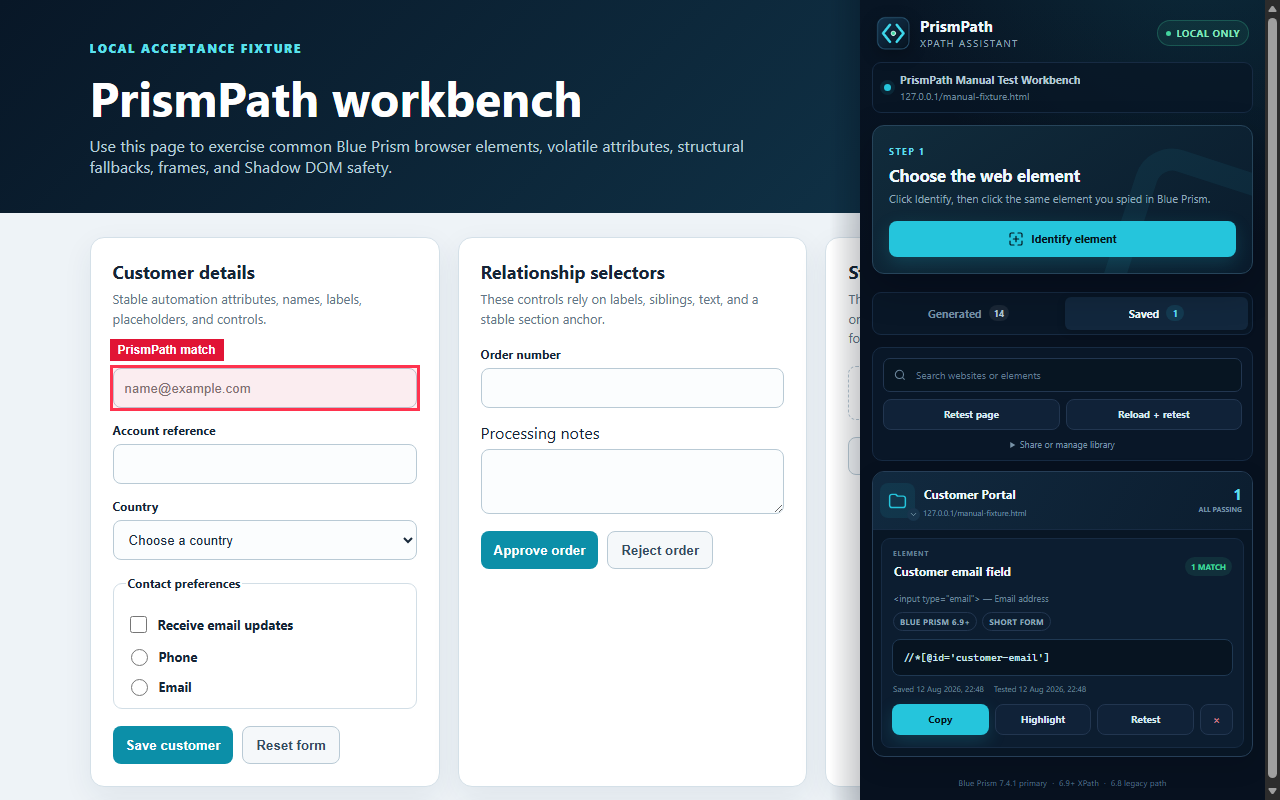
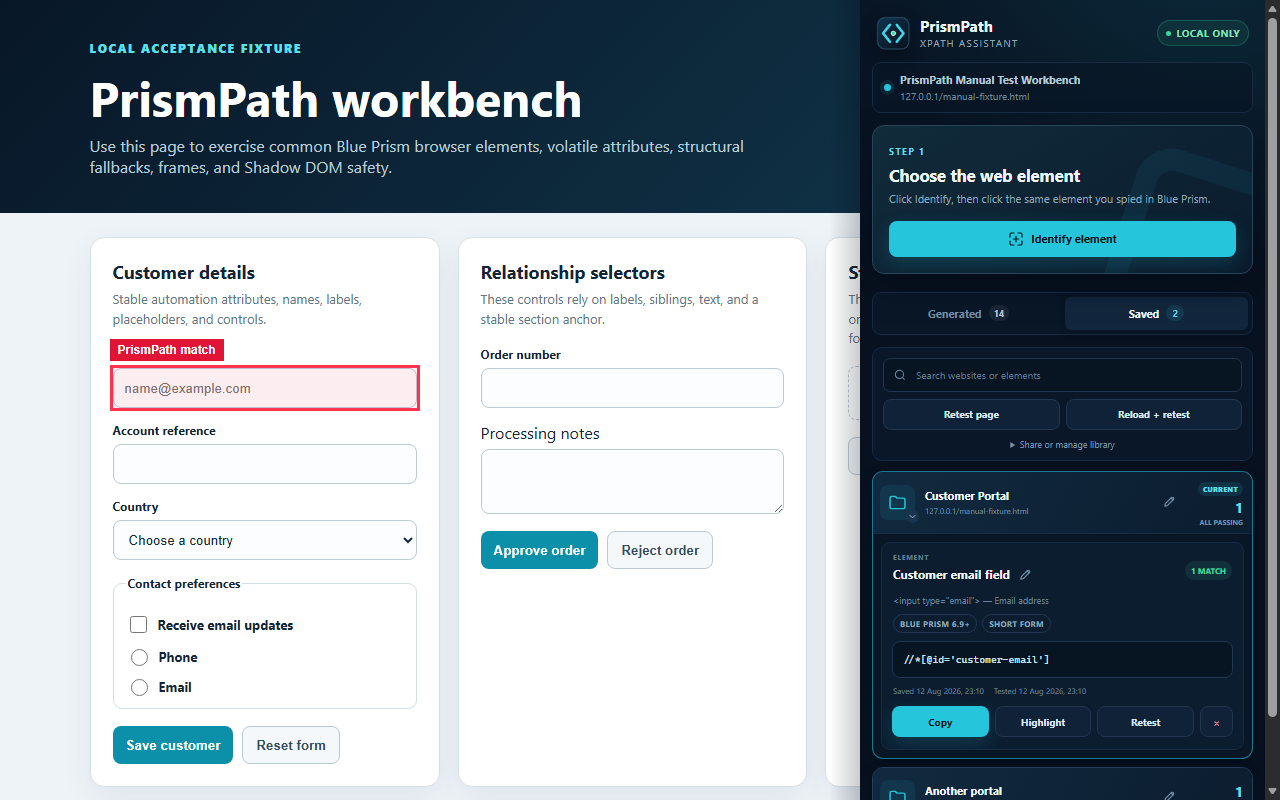
Improve saved page navigation

diff --git a/sidepanel/app.js b/sidepanel/app.js
@@ -9,7 +9,9 @@ const state = {
   selection: null,
   saved: [],
   websites: {},
-  collapsedWebsites: new Set(),
+  expandedWebsiteKey: "",
+  editingWebsiteKey: "",
+  editingElementId: "",
   currentView: "generated",
   identifying: false,
   retesting: false,
@@ -68,10 +70,7 @@ function bindEvents() {
   document.querySelectorAll(".tab").forEach((tab) => tab.addEventListener("click", () => switchView(tab.dataset.tab)));
   elements.generatedContent.addEventListener("click", onGeneratedAction);
   elements.savedContent.addEventListener("click", onSavedAction);
-  elements.savedContent.addEventListener("change", onSavedChange);
-  elements.savedContent.addEventListener("keydown", (event) => {
-    if (event.key === "Enter" && event.target.matches(".website-name, .saved-name")) event.target.blur();
-  });
+  elements.savedContent.addEventListener("keydown", onSavedKeyDown);
   elements.savedSearch.addEventListener("input", () => {
     state.search = elements.savedSearch.value.trim().toLowerCase();
     renderSaved();
@@ -307,7 +306,6 @@ async function saveCandidate(candidate) {
   };
   state.saved.unshift(saved);
   ensureWebsiteForSelector(saved);
-  state.collapsedWebsites.delete(saved.pageUrlBase);
   await persistSaved();
   renderSaved();
   renderCounts();
@@ -343,7 +341,9 @@ function renderSaved() {
 }
 
 function websiteFolder(website) {
-  const collapsed = state.collapsedWebsites.has(website.key);
+  const expanded = state.expandedWebsiteKey === website.key;
+  const editing = state.editingWebsiteKey === website.key;
+  const isCurrentPage = website.key === state.activeTab?.urlBase;
   const validCount = website.selectors.filter((item) => item.lastStatus === "valid").length;
   const attentionCount = website.selectors.filter((item) => ["missing", "multiple", "invalid"].includes(item.lastStatus)).length;
   const statusText = attentionCount
@@ -352,23 +352,37 @@ function websiteFolder(website) {
       ? "All passing"
       : `${website.selectors.length} saved`;
   return `
-    <section class="website-folder ${collapsed ? "is-collapsed" : ""}" data-website-key="${escapeAttribute(website.key)}">
+    <section class="website-folder ${expanded ? "is-expanded" : "is-collapsed"} ${isCurrentPage ? "is-current" : ""}" data-website-key="${escapeAttribute(website.key)}">
       <div class="website-header">
-        <button class="website-toggle" type="button" data-action="toggle-website" data-website-key="${escapeAttribute(website.key)}" aria-expanded="${String(!collapsed)}" aria-label="${collapsed ? "Open" : "Close"} ${escapeAttribute(website.name)} folder">
-          <svg class="folder-icon" viewBox="0 0 24 24" aria-hidden="true"><path d="M3 7.5A2.5 2.5 0 0 1 5.5 5H10l2 2h6.5A2.5 2.5 0 0 1 21 9.5v8A2.5 2.5 0 0 1 18.5 20h-13A2.5 2.5 0 0 1 3 17.5z"/></svg>
-          <svg class="folder-chevron" viewBox="0 0 24 24" aria-hidden="true"><path d="m9 6 6 6-6 6"/></svg>
-        </button>
-        <label class="website-identity">
-          <span class="sr-only">Website folder name</span>
-          <input class="website-name" data-action="rename-website" data-website-key="${escapeAttribute(website.key)}" value="${escapeAttribute(website.name)}" aria-label="Website folder name">
-          <span class="website-url">${escapeHtml(readableUrl(website.url))}</span>
-        </label>
+        ${editing
+          ? `<div class="website-editing">
+              <span class="folder-mark">${folderIcon()}</span>
+              <label class="website-edit-field">
+                <span class="sr-only">Website name</span>
+                <input class="website-name" data-editor="website" data-website-key="${escapeAttribute(website.key)}" value="${escapeAttribute(website.name)}" aria-label="Website name">
+                <span class="website-url">${escapeHtml(readableUrl(website.url))}</span>
+              </label>
+            </div>`
+          : `<button class="website-open" type="button" data-action="toggle-website" data-website-key="${escapeAttribute(website.key)}" aria-expanded="${String(expanded)}">
+              <span class="folder-mark">${folderIcon()}${chevronIcon()}</span>
+              <span class="website-identity">
+                <strong>${escapeHtml(website.name)}</strong>
+                <span class="website-url">${escapeHtml(readableUrl(website.url))}</span>
+              </span>
+            </button>`}
+        <div class="website-edit-actions">
+          ${editing
+            ? `<button class="edit-icon-button confirm" type="button" data-action="save-website-name" data-website-key="${escapeAttribute(website.key)}" aria-label="Save website name" title="Save website name">${checkIcon()}</button>
+               <button class="edit-icon-button" type="button" data-action="cancel-website-name" aria-label="Cancel website rename" title="Cancel">${closeIcon()}</button>`
+            : `<button class="edit-icon-button" type="button" data-action="edit-website-name" data-website-key="${escapeAttribute(website.key)}" aria-label="Rename ${escapeAttribute(website.name)}" title="Rename website">${penIcon()}</button>`}
+        </div>
         <div class="website-totals">
+          ${isCurrentPage ? '<em class="current-page-badge">Current</em>' : ""}
           <strong>${website.selectors.length}</strong>
           <span>${escapeHtml(statusText)}</span>
         </div>
       </div>
-      <div class="website-elements" ${collapsed ? "hidden" : ""}>
+      <div class="website-elements" ${expanded ? "" : "hidden"}>
         ${website.selectors.map(savedCard).join("")}
       </div>
     </section>`;
@@ -376,15 +390,25 @@ function websiteFolder(website) {
 
 function savedCard(item) {
   const status = item.lastStatus || "untested";
+  const editing = state.editingElementId === item.id;
   const statusLabel = status === "valid" ? "1 match" : status === "multiple" ? `${item.lastCount || 2} matches` : status;
   const context = item.frameIsFrame ? `Iframe · ${readableUrl(item.frameUrl)}` : item.elementSummary || "Saved web element";
   return `
     <article class="saved-card" data-id="${item.id}">
       <div class="card-head">
-        <label class="element-name-field">
+        <div class="element-name-field">
           <span class="element-label">Element</span>
-          <input class="saved-name" data-action="rename-element" data-id="${item.id}" value="${escapeAttribute(item.name)}" aria-label="Saved element name">
-        </label>
+          ${editing
+            ? `<div class="element-editing">
+                <input class="saved-name" data-editor="element" data-id="${item.id}" value="${escapeAttribute(item.name)}" aria-label="Element name">
+                <button class="edit-icon-button confirm" type="button" data-action="save-element-name" data-id="${item.id}" aria-label="Save element name" title="Save element name">${checkIcon()}</button>
+                <button class="edit-icon-button" type="button" data-action="cancel-element-name" aria-label="Cancel element rename" title="Cancel">${closeIcon()}</button>
+              </div>`
+            : `<div class="element-name-row">
+                <strong>${escapeHtml(item.name)}</strong>
+                <button class="edit-icon-button" type="button" data-action="edit-element-name" data-id="${item.id}" aria-label="Rename ${escapeAttribute(item.name)}" title="Rename element">${penIcon()}</button>
+              </div>`}
+        </div>
         <span class="status-pill ${escapeHtml(status)}">${escapeHtml(statusLabel)}</span>
       </div>
       <div class="saved-context">${escapeHtml(context)}</div>
@@ -411,8 +435,43 @@ async function onSavedAction(event) {
   if (!button) return;
   if (button.dataset.action === "toggle-website") {
     const websiteKey = button.dataset.websiteKey;
-    if (state.collapsedWebsites.has(websiteKey)) state.collapsedWebsites.delete(websiteKey);
-    else state.collapsedWebsites.add(websiteKey);
+    state.expandedWebsiteKey = state.expandedWebsiteKey === websiteKey ? "" : websiteKey;
+    state.editingWebsiteKey = "";
+    state.editingElementId = "";
+    renderSaved();
+    return;
+  }
+  if (button.dataset.action === "edit-website-name") {
+    state.editingWebsiteKey = button.dataset.websiteKey;
+    state.editingElementId = "";
+    renderSaved();
+    focusActiveEditor();
+    return;
+  }
+  if (button.dataset.action === "save-website-name") {
+    const input = button.closest(".website-header")?.querySelector("[data-editor=website]");
+    await saveWebsiteName(button.dataset.websiteKey, input?.value);
+    return;
+  }
+  if (button.dataset.action === "cancel-website-name") {
+    state.editingWebsiteKey = "";
+    renderSaved();
+    return;
+  }
+  if (button.dataset.action === "edit-element-name") {
+    state.editingElementId = button.dataset.id;
+    state.editingWebsiteKey = "";
+    renderSaved();
+    focusActiveEditor();
+    return;
+  }
+  if (button.dataset.action === "save-element-name") {
+    const input = button.closest(".saved-card")?.querySelector("[data-editor=element]");
+    await saveElementName(button.dataset.id, input?.value);
+    return;
+  }
+  if (button.dataset.action === "cancel-element-name") {
+    state.editingElementId = "";
     renderSaved();
     return;
   }
@@ -435,26 +494,48 @@ async function onSavedAction(event) {
   }
 }
 
-async function onSavedChange(event) {
-  if (event.target.dataset.action === "rename-element") {
-    const item = state.saved.find((selector) => selector.id === event.target.dataset.id);
-    if (!item) return;
-    item.name = event.target.value.trim().slice(0, 180) || "Unnamed element";
-    await persistSaved();
-    event.target.value = item.name;
-    showToast("Element name updated.", "success");
-    return;
+async function onSavedKeyDown(event) {
+  if (!event.target.matches("[data-editor=website], [data-editor=element]")) return;
+  if (event.key === "Enter") {
+    event.preventDefault();
+    if (event.target.dataset.editor === "website") await saveWebsiteName(event.target.dataset.websiteKey, event.target.value);
+    else await saveElementName(event.target.dataset.id, event.target.value);
   }
-  if (event.target.dataset.action === "rename-website") {
-    const websiteKey = event.target.dataset.websiteKey;
-    const website = state.websites[websiteKey];
-    if (!website) return;
-    website.name = event.target.value.trim().slice(0, 180) || website.defaultName || "Unnamed website";
-    website.updatedAt = new Date().toISOString();
-    await persistSaved();
-    event.target.value = website.name;
-    showToast("Website folder renamed.", "success");
+  if (event.key === "Escape") {
+    event.preventDefault();
+    state.editingWebsiteKey = "";
+    state.editingElementId = "";
+    renderSaved();
   }
+}
+
+async function saveWebsiteName(websiteKey, value) {
+  const website = state.websites[websiteKey];
+  if (!website) return;
+  website.name = String(value || "").trim().slice(0, 180) || website.defaultName || "Unnamed website";
+  website.updatedAt = new Date().toISOString();
+  state.editingWebsiteKey = "";
+  await persistSaved();
+  renderSaved();
+  showToast("Website name updated.", "success");
+}
+
+async function saveElementName(id, value) {
+  const item = state.saved.find((selector) => selector.id === id);
+  if (!item) return;
+  item.name = String(value || "").trim().slice(0, 180) || "Unnamed element";
+  state.editingElementId = "";
+  await persistSaved();
+  renderSaved();
+  showToast("Element name updated.", "success");
+}
+
+function focusActiveEditor() {
+  requestAnimationFrame(() => {
+    const input = elements.savedContent.querySelector("[data-editor=website], [data-editor=element]");
+    input?.focus();
+    input?.select();
+  });
 }
 
 async function validateSaved(item, highlight) {
@@ -620,7 +701,9 @@ async function clearLibrary() {
   if (!confirm(`Delete all ${state.saved.length} saved selectors from this browser?`)) return;
   state.saved = [];
   state.websites = {};
-  state.collapsedWebsites.clear();
+  state.expandedWebsiteKey = "";
+  state.editingWebsiteKey = "";
+  state.editingElementId = "";
   await persistSaved();
   renderSaved();
   renderCounts();
@@ -807,6 +890,26 @@ function emptyState(title, message) {
 
 function targetIcon() {
   return '<svg viewBox="0 0 24 24" aria-hidden="true"><path d="M8 3H5a2 2 0 0 0-2 2v3m13-5h3a2 2 0 0 1 2 2v3M8 21H5a2 2 0 0 1-2-2v-3m18 0v3a2 2 0 0 1-2 2h-3M8 12h8m-4-4v8"/></svg>';
+}
+
+function folderIcon() {
+  return '<svg class="folder-icon" viewBox="0 0 24 24" aria-hidden="true"><path d="M3.5 6.8c0-1 .8-1.8 1.8-1.8h4.1l2 2h7.3c1 0 1.8.8 1.8 1.8v8.4c0 1-.8 1.8-1.8 1.8H5.3c-1 0-1.8-.8-1.8-1.8V6.8Z"/></svg>';
+}
+
+function chevronIcon() {
+  return '<svg class="folder-chevron" viewBox="0 0 16 16" aria-hidden="true"><path d="m6 3.5 4.5 4.5L6 12.5"/></svg>';
+}
+
+function penIcon() {
+  return '<svg viewBox="0 0 20 20" aria-hidden="true"><path d="m12.9 4.1 3 3M4 16l.8-3.6 8.8-8.8a1.4 1.4 0 0 1 2 0l.8.8a1.4 1.4 0 0 1 0 2l-8.8 8.8L4 16Z"/></svg>';
+}
+
+function checkIcon() {
+  return '<svg viewBox="0 0 20 20" aria-hidden="true"><path d="m4 10.2 3.6 3.6L16 5.5"/></svg>';
+}
+
+function closeIcon() {
+  return '<svg viewBox="0 0 20 20" aria-hidden="true"><path d="m5 5 10 10M15 5 5 15"/></svg>';
 }
 
 function categoryLabel(category) {

diff --git a/sidepanel/styles.css b/sidepanel/styles.css
@@ -204,33 +204,47 @@ p { margin: 0; color: var(--muted); font-size: 11px; line-height: 1.5; }
 .text-button:hover { text-decoration: underline; }
 .danger-text { color: #ff8293; }
 
-.saved-websites { display: grid; gap: 11px; }
-.website-folder { overflow: hidden; border: 1px solid #263e57; border-radius: 12px; background: rgba(9, 23, 38, .9); box-shadow: 0 9px 24px rgba(0, 5, 14, .13); }
-.website-header { display: grid; grid-template-columns: 35px minmax(0, 1fr) auto; align-items: center; gap: 8px; min-height: 58px; padding: 8px 10px 8px 7px; background: linear-gradient(120deg, rgba(18, 43, 65, .92), rgba(12, 30, 48, .92)); }
-.website-folder:not(.is-collapsed) .website-header { border-bottom: 1px solid var(--border-soft); }
-.website-toggle { position: relative; display: grid; place-items: center; width: 35px; height: 35px; padding: 0; border: 0; border-radius: 8px; background: rgba(37, 197, 220, .09); color: var(--accent); cursor: pointer; }
-.website-toggle:hover { background: rgba(37, 197, 220, .15); }
-.website-toggle svg { fill: none; stroke: currentColor; stroke-width: 1.7; stroke-linecap: round; stroke-linejoin: round; }
+.saved-websites { display: grid; gap: 8px; }
+.website-folder { overflow: hidden; border: 1px solid #263e57; border-radius: 11px; background: rgba(9, 23, 38, .9); box-shadow: 0 8px 20px rgba(0, 5, 14, .11); transition: border-color 120ms ease; }
+.website-folder.is-current { border-color: rgba(37, 197, 220, .4); }
+.website-folder.is-expanded { border-color: #355572; }
+.website-folder.is-current.is-expanded { border-color: rgba(37, 197, 220, .58); }
+.website-header { display: grid; grid-template-columns: minmax(0, 1fr) auto auto; align-items: center; gap: 7px; min-height: 58px; padding: 7px 9px 7px 7px; background: linear-gradient(120deg, rgba(18, 43, 65, .92), rgba(12, 30, 48, .92)); }
+.website-folder.is-expanded .website-header { border-bottom: 1px solid var(--border-soft); }
+.website-open, .website-editing { display: grid; grid-template-columns: 37px minmax(0, 1fr); align-items: center; gap: 8px; min-width: 0; }
+.website-open { width: 100%; padding: 0; border: 0; background: transparent; color: inherit; cursor: pointer; text-align: left; }
+.website-open:focus-visible { border-radius: 7px; outline: 2px solid var(--accent); outline-offset: 2px; }
+.folder-mark { position: relative; display: grid; place-items: center; width: 35px; height: 35px; border-radius: 8px; background: rgba(37, 197, 220, .09); color: var(--accent); }
+.website-open:hover .folder-mark { background: rgba(37, 197, 220, .15); }
+.folder-mark svg { fill: none; stroke: currentColor; stroke-width: 1.7; stroke-linecap: round; stroke-linejoin: round; }
 .folder-icon { width: 21px; height: 21px; }
-.folder-chevron { position: absolute; right: -5px; bottom: -3px; width: 13px; height: 13px; padding: 2px; border-radius: 50%; background: #18354d; color: #9dc3d1; transform: rotate(90deg); transition: transform 120ms ease; }
-.website-folder.is-collapsed .folder-chevron { transform: rotate(0deg); }
-.website-identity { display: grid; min-width: 0; gap: 2px; }
-.website-name { width: 100%; min-width: 0; padding: 3px 5px; margin-left: -5px; border: 1px solid transparent; border-radius: 5px; outline: none; background: transparent; color: #f0fbff; font-size: 12px; line-height: 1.25; font-weight: 760; text-overflow: ellipsis; }
-.website-name:hover { border-color: #38536d; }
-.website-name:focus { border-color: var(--accent); background: #071522; }
+.folder-chevron { position: absolute; right: -4px; bottom: -3px; width: 13px; height: 13px; padding: 2px; border-radius: 50%; background: #18354d; color: #9dc3d1; transform: rotate(0deg); transition: transform 120ms ease; }
+.website-folder.is-expanded .folder-chevron { transform: rotate(90deg); }
+.website-identity, .website-edit-field { display: grid; min-width: 0; gap: 3px; }
+.website-identity strong { overflow: hidden; color: #f0fbff; font-size: 11px; line-height: 1.25; text-overflow: ellipsis; white-space: nowrap; }
+.website-name { width: 100%; min-width: 0; padding: 4px 6px; border: 1px solid var(--accent); border-radius: 6px; outline: none; background: #071522; color: #f0fbff; font-size: 11px; line-height: 1.25; font-weight: 760; text-overflow: ellipsis; }
+.website-name:focus { box-shadow: 0 0 0 2px rgba(37,197,220,.12); }
 .website-url { overflow: hidden; color: #7290a3; font-size: 8px; line-height: 1.3; text-overflow: ellipsis; white-space: nowrap; }
-.website-totals { min-width: 52px; text-align: right; }
-.website-totals strong { display: block; color: var(--accent-strong); font-size: 15px; line-height: 1; }
-.website-totals span { display: block; max-width: 70px; margin-top: 3px; color: #7692a5; font-size: 7px; line-height: 1.2; font-weight: 720; text-transform: uppercase; }
+.website-edit-actions { display: flex; gap: 4px; }
+.edit-icon-button { display: grid; place-items: center; width: 26px; height: 26px; padding: 0; border: 1px solid transparent; border-radius: 6px; background: transparent; color: #6f8da2; cursor: pointer; }
+.edit-icon-button:hover, .edit-icon-button:focus-visible { border-color: #35516b; background: #102a42; color: #b1cad6; outline: none; }
+.edit-icon-button.confirm { color: var(--green); }
+.edit-icon-button svg { width: 14px; height: 14px; fill: none; stroke: currentColor; stroke-width: 1.7; stroke-linecap: round; stroke-linejoin: round; }
+.website-totals { min-width: 54px; text-align: right; }
+.website-totals strong { display: block; color: var(--accent-strong); font-size: 14px; line-height: 1; }
+.website-totals span { display: block; max-width: 67px; margin-top: 3px; color: #7692a5; font-size: 7px; line-height: 1.2; font-weight: 720; text-transform: uppercase; }
+.current-page-badge { display: inline-block; margin-bottom: 5px; padding: 2px 5px; border-radius: 999px; background: rgba(37,197,220,.12); color: var(--accent-strong); font-size: 7px; font-style: normal; font-weight: 800; letter-spacing: .04em; text-transform: uppercase; }
 .website-elements { display: grid; gap: 8px; padding: 8px; }
 .website-elements[hidden] { display: none; }
 .saved-card { padding-bottom: 2px; border-radius: 9px; background: rgba(13, 31, 50, .88); }
 .saved-card .card-head { align-items: center; }
-.element-name-field { display: grid; flex: 1; min-width: 0; gap: 1px; }
+.element-name-field { display: grid; flex: 1; min-width: 0; gap: 3px; }
 .element-label { color: #668297; font-size: 7px; line-height: 1; font-weight: 760; letter-spacing: .1em; text-transform: uppercase; }
-.saved-name { width: 100%; min-width: 0; border: 1px solid transparent; border-radius: 5px; background: transparent; color: var(--text); font-size: 12px; font-weight: 700; padding: 4px 5px; margin-left: -5px; text-overflow: ellipsis; }
-.saved-name:hover { border-color: var(--border); }
-.saved-name:focus { border-color: var(--accent); outline: none; background: #071522; }
+.element-name-row, .element-editing { display: flex; align-items: center; gap: 4px; min-width: 0; }
+.element-name-row strong { overflow: hidden; min-width: 0; color: var(--text); font-size: 12px; line-height: 1.3; text-overflow: ellipsis; white-space: nowrap; }
+.element-name-row .edit-icon-button { flex: 0 0 auto; width: 22px; height: 22px; }
+.saved-name { width: 100%; min-width: 0; padding: 4px 6px; border: 1px solid var(--accent); border-radius: 6px; outline: none; background: #071522; color: var(--text); font-size: 11px; font-weight: 700; text-overflow: ellipsis; }
+.saved-name:focus { box-shadow: 0 0 0 2px rgba(37,197,220,.12); }
 .status-pill { flex: 0 0 auto; padding: 4px 6px; border-radius: 999px; background: rgba(145,168,186,.09); color: #8da5b7; font-size: 8px; font-weight: 780; text-transform: uppercase; }
 .status-pill.valid { background: rgba(67,213,159,.1); color: var(--green); }
 .status-pill.missing, .status-pill.multiple, .status-pill.invalid { background: rgba(255,90,112,.1); color: #ff8091; }
@@ -241,6 +255,8 @@ p { margin: 0; color: var(--muted); font-size: 11px; line-height: 1.5; }
 .delete-button { width: 33px; padding: 0; color: #c77c87; }
 
 footer { display: flex; flex-wrap: wrap; justify-content: center; gap: 5px; padding: 0 14px 16px; color: #546f83; font-size: 8px; letter-spacing: .02em; }
+footer a { color: #6f8da2; text-decoration: none; }
+footer a:hover, footer a:focus-visible { color: var(--accent-strong); text-decoration: underline; outline: none; }
 
 .toast { position: fixed; z-index: 20; left: 12px; right: 12px; bottom: 12px; padding: 10px 12px; border: 1px solid #2d4a63; border-radius: 8px; background: #10263b; color: #d7eaf2; box-shadow: 0 12px 30px rgba(0,0,0,.35); font-size: 10px; line-height: 1.4; animation: toast-in 160ms ease-out; }
 .toast.error { border-color: rgba(255,90,112,.42); background: #321824; color: #ffd4da; }

diff --git a/sidepanel/index.html b/sidepanel/index.html
@@ -81,11 +81,13 @@
     </main>
 
     <footer>
-      <span>Blue Prism 7.4.1 primary</span>
+      <span>PrismPath</span>
       <span aria-hidden="true">·</span>
-      <span>6.9+ XPath</span>
+      <a href="https://prismpath.jacksarg.com/" target="_blank" rel="noreferrer">PrismPath.JackSarg.com</a>
       <span aria-hidden="true">·</span>
-      <span>6.8 legacy path</span>
+      <a href="https://github.com/JackSarg/PrismPath" target="_blank" rel="noreferrer">GitHub</a>
+      <span aria-hidden="true">·</span>
+      <a href="https://www.linkedin.com/in/jacksarg/" target="_blank" rel="noreferrer">LinkedIn</a>
     </footer>
 
     <div id="toast" class="toast" role="status" aria-live="polite" hidden></div>

diff --git a/README.md b/README.md
@@ -78,7 +78,7 @@ Existing pages may need one reload immediately after the extension is first inst
 
 ## Saved selector regression checks
 
-Saved entries are automatically organised into collapsible webpage folders. A folder initially uses the webpage title; both the website folder and each saved element can be renamed to a memorable friendly name. The folder keeps the original page address visible underneath the friendly name.
+Saved entries are automatically organised into a compact, collapsed list of webpage folders. The current webpage is marked and moved to the top whenever it has saved entries. Click a webpage row to open its saved elements. A folder initially uses the webpage title, keeps the page address visible, and can be given a memorable friendly name using its pen icon. Each saved element has its own pen-icon rename control.
 
 Saved entries retain the page path and iframe context in which they were captured. On the relevant page:
 

diff --git a/CHANGELOG.md b/CHANGELOG.md
@@ -1,5 +1,12 @@
 # Changelog
 
+## 1.2.0 — 2026-08-12
+
+- Reworked Saved into a compact webpage URL accordion that starts collapsed
+- Moved the active webpage to the top of the Saved list and marked it as Current
+- Replaced always-visible rename fields with subtle pen-icon editing for websites and elements
+- Added PrismPath website, GitHub, and LinkedIn links to the side-panel footer
+
 ## 1.1.0 — 2026-08-12
 
 - Grouped saved elements into collapsible webpage folders

diff --git a/STORE_LISTING.md b/STORE_LISTING.md
@@ -25,7 +25,7 @@ Key capabilities:
 - Strict exactly-one-match validation
 - On-page red highlight for fresh visual verification
 - Persistent local selector library
-- Collapsible webpage folders with editable website and element names
+- Current-page-first URL accordion with pen-icon website and element renaming
 - Retest all selectors for the active page
 - Reload the page and rerun selector regression checks
 - Iframe-aware saved context
